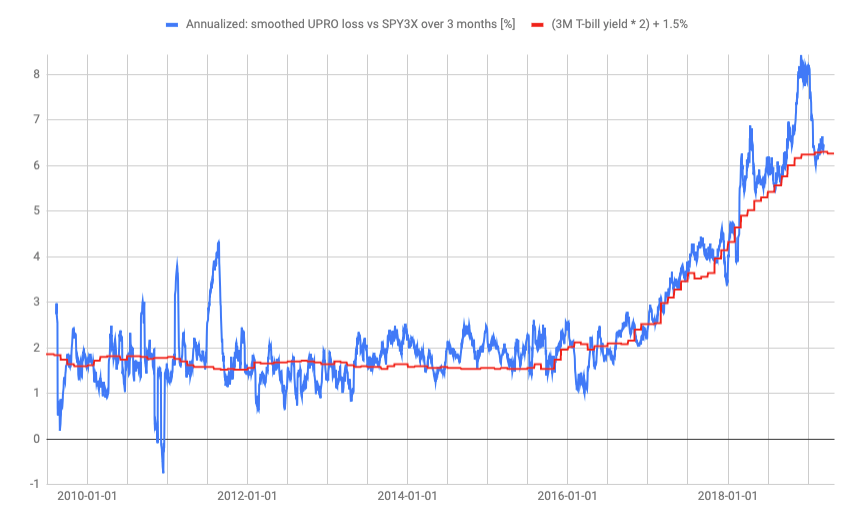
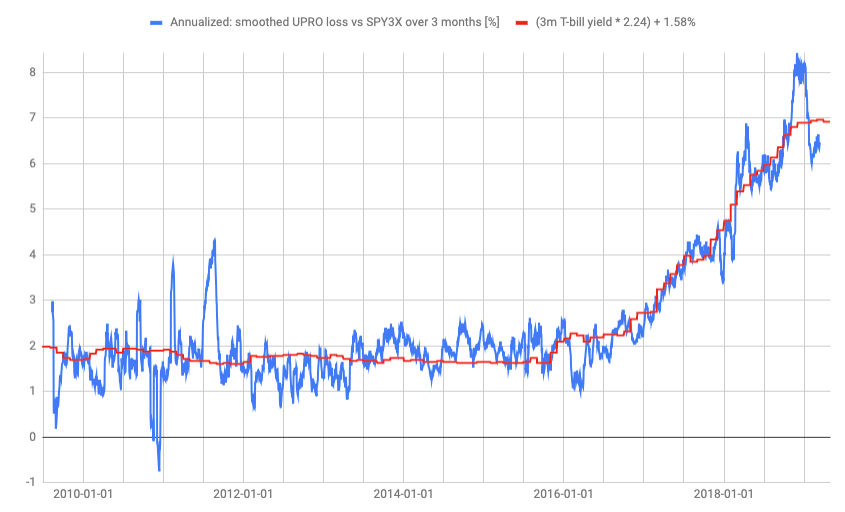
Update tbill section with linear regression

diff --git a/README.md b/README.md
@@ -87,14 +87,14 @@ here are
 ![3 month Treasuries](img/3month_tbill.png)
 
 The `UPRO`/`SPY3X` difference seems to be approximately explained
-by a hand-fit formula, (3M tbill yield * 2) + 1.5%. The 2x tbill
-cost comes from the leverage (1X can be achieved "naturally",
-the remaining 2x require borrowing or other techniques which
-are equivalent from net result point of view), while 1.5% seems to
-be the raw cost of the fund / result of missing the stated objective.
-This is higher than the stated expense ratio of 0.92%, but the fit
-is very approximate (I literally just typed
-these numbers and checked that "plots looks similar").
+by a linearly regressed formula: (3month tbill yield) * 2.24 + 1.58%.
+The 2.24 * tbill part comes from the leverage. Apparently close to
+0.75X is be achieved "naturally", by holding the index or stocks
+in the index, while the remaining 2.24x requires borrowing or other
+techniques which are equivalent to borrowing from net result point of view.
+1.58% seems to be the raw cost of the fund / result of missing the
+stated objective. This is higher than the stated expense ratio of
+0.92%, but the fit is somewhat approximate.
 
 ![UPRO over SPY3X, annualized loss, with Tbill rates](img/annualized_upro_loss_and_tbill.png)
 
